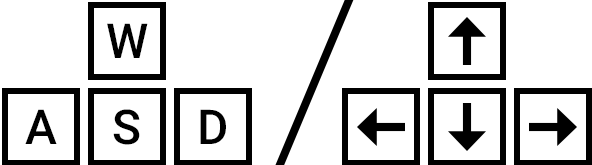
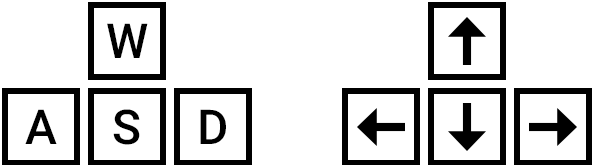
Got rid of forward slash

Changed region(s): [[0.4561, 0.0, 0.6081, 1.0]]

diff --git a/lib/bundle.js b/lib/bundle.js
@@ -574,8 +574,10 @@ function drawWaterElement(context, canvas) {
   }
 }
 
-var drawInstructions = exports.drawInstructions = function drawInstructions(context, canvas, instructionPng) {
-  context.drawImage(instructionPng, 65 / 1440 * canvas.width, 235 / 810 * canvas.height, 200 / 1440 * canvas.width, 300 / 810 * canvas.height);
+var drawInstructions = exports.drawInstructions = function drawInstructions(context, canvas, instructionPng, movementPng) {
+  context.drawImage(instructionPng, 100 / 1440 * canvas.width, 325 / 810 * canvas.height, 130 / 1440 * canvas.width, 230 / 810 * canvas.height);
+
+  context.drawImage(movementPng, 55 / 1440 * canvas.width, 220 / 810 * canvas.height, 220 / 1440 * canvas.width, 80 / 810 * canvas.height);
 };
 
 /***/ }),
@@ -1085,6 +1087,13 @@ document.addEventListener("DOMContentLoaded", function () {
     update(imagesLoaded);
   };
 
+  var movementPng = new Image();
+  movementPng.src = '../assets/images/movement.png';
+  movementPng.onload = function () {
+    imagesLoaded += 1;
+    update(imagesLoaded);
+  };
+
   var gameoverPng = new Image();
   gameoverPng.src = '../assets/images/gameover.png';
   gameoverPng.onload = function () {
@@ -1180,7 +1189,7 @@ document.addEventListener("DOMContentLoaded", function () {
       generatePlayers(gameContext, gameCanvas, fireSpritePng, earthSpritePng, lightningSpritePng, waterSpritePng, difficulty);
       generated = true;
     }
-    if (imagesLoaded >= 11) {
+    if (imagesLoaded >= 12) {
       requestAnimationFrame(update);
       gameContext.clearRect(0, 0, gameCanvas.width, gameCanvas.height);
       gameContext.beginPath();
@@ -1216,7 +1225,7 @@ document.addEventListener("DOMContentLoaded", function () {
         generateGameover(gameContext, gameCanvas, gameoverPng);
       }
     }
-    (0, _util.drawInstructions)(gameContext, gameCanvas, instructionPng);
+    (0, _util.drawInstructions)(gameContext, gameCanvas, instructionPng, movementPng);
   }
 });
 

diff --git a/lib/game.js b/lib/game.js
@@ -96,6 +96,13 @@ document.addEventListener("DOMContentLoaded", () => {
     update(imagesLoaded)
   }
 
+  const movementPng = new Image();
+  movementPng.src = '../assets/images/movement.png';
+  movementPng.onload = () => {
+    imagesLoaded += 1;
+    update(imagesLoaded)
+  }
+
   const gameoverPng = new Image();
   gameoverPng.src = '../assets/images/gameover.png';
   gameoverPng.onload = () => {
@@ -191,7 +198,7 @@ document.addEventListener("DOMContentLoaded", () => {
       generatePlayers(gameContext, gameCanvas, fireSpritePng, earthSpritePng, lightningSpritePng, waterSpritePng, difficulty);
       generated = true;
     }
-    if (imagesLoaded >= 11) {
+    if (imagesLoaded >= 12) {
       requestAnimationFrame(update);
       gameContext.clearRect(0, 0, gameCanvas.width, gameCanvas.height);
       gameContext.beginPath();
@@ -235,7 +242,7 @@ document.addEventListener("DOMContentLoaded", () => {
         generateGameover(gameContext, gameCanvas, gameoverPng);
       }
     }
-    drawInstructions(gameContext, gameCanvas, instructionPng);
+    drawInstructions(gameContext, gameCanvas, instructionPng, movementPng);
   }
 });
 

diff --git a/lib/util.js b/lib/util.js
@@ -267,12 +267,20 @@ function drawWaterElement(context, canvas, highlight = false, waterPng) {
   }
 }
 
-export const drawInstructions = (context, canvas, instructionPng) => {
+export const drawInstructions = (context, canvas, instructionPng, movementPng) => {
   context.drawImage(
     instructionPng,
-    ((65/1440) * canvas.width),
-    ((235/810) * canvas.height),
-    ((200/1440) * canvas.width),
-    ((300/810) * canvas.height)
+    ((100/1440) * canvas.width),
+    ((325/810) * canvas.height),
+    ((130/1440) * canvas.width),
+    ((230/810) * canvas.height)
+  );
+
+  context.drawImage(
+    movementPng,
+    ((55/1440) * canvas.width),
+    ((220/810) * canvas.height),
+    ((220/1440) * canvas.width),
+    ((80/810) * canvas.height)
   );
 }
